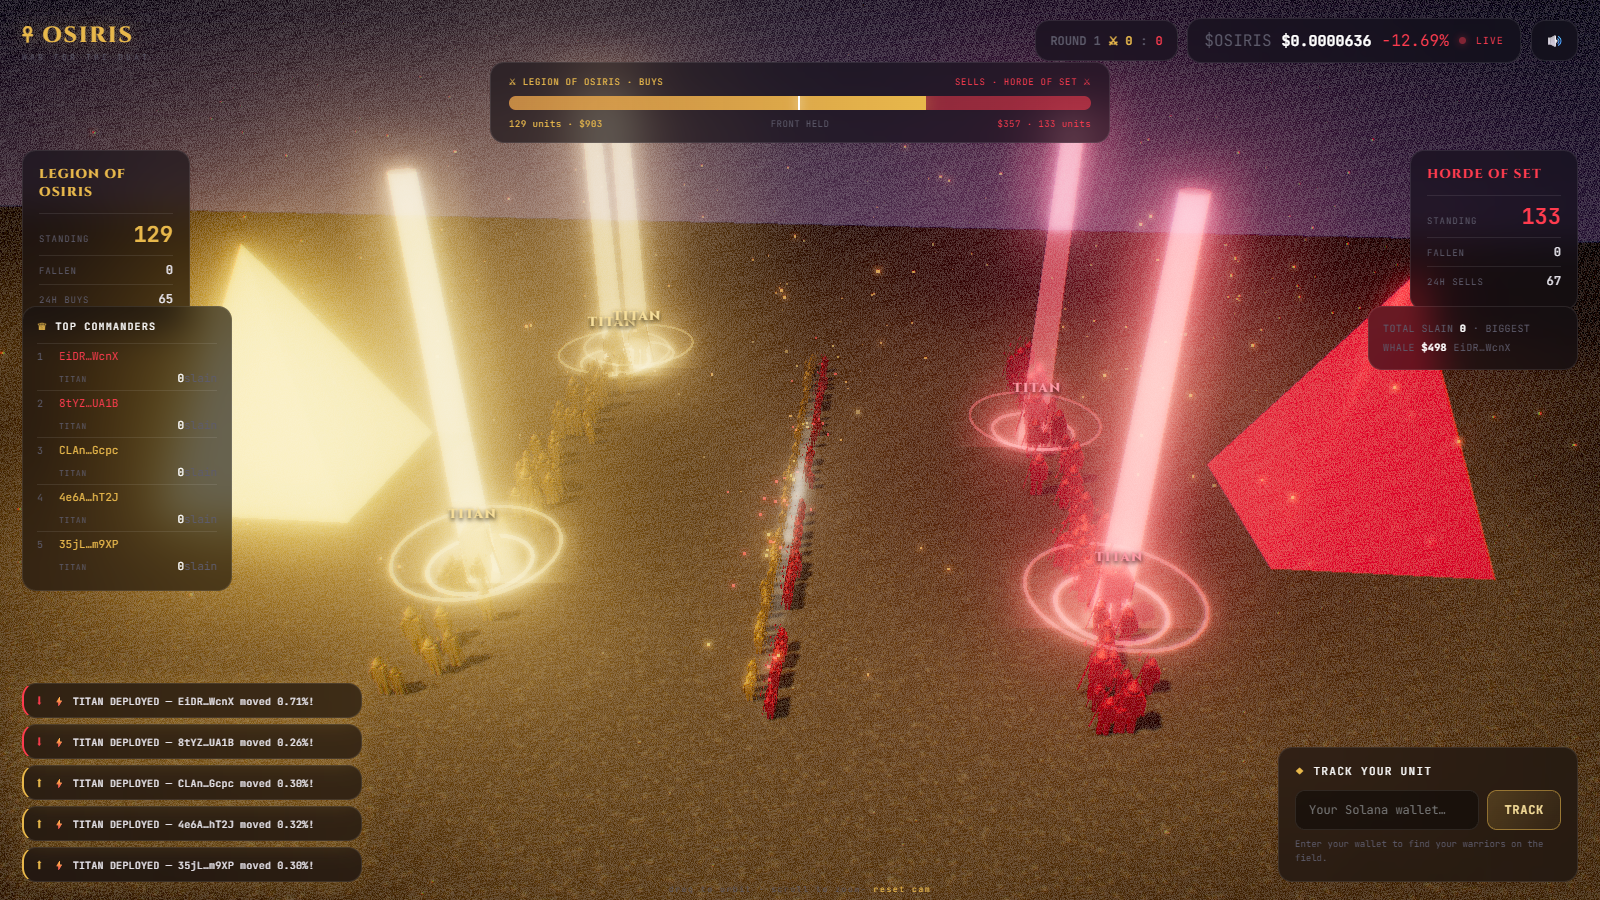
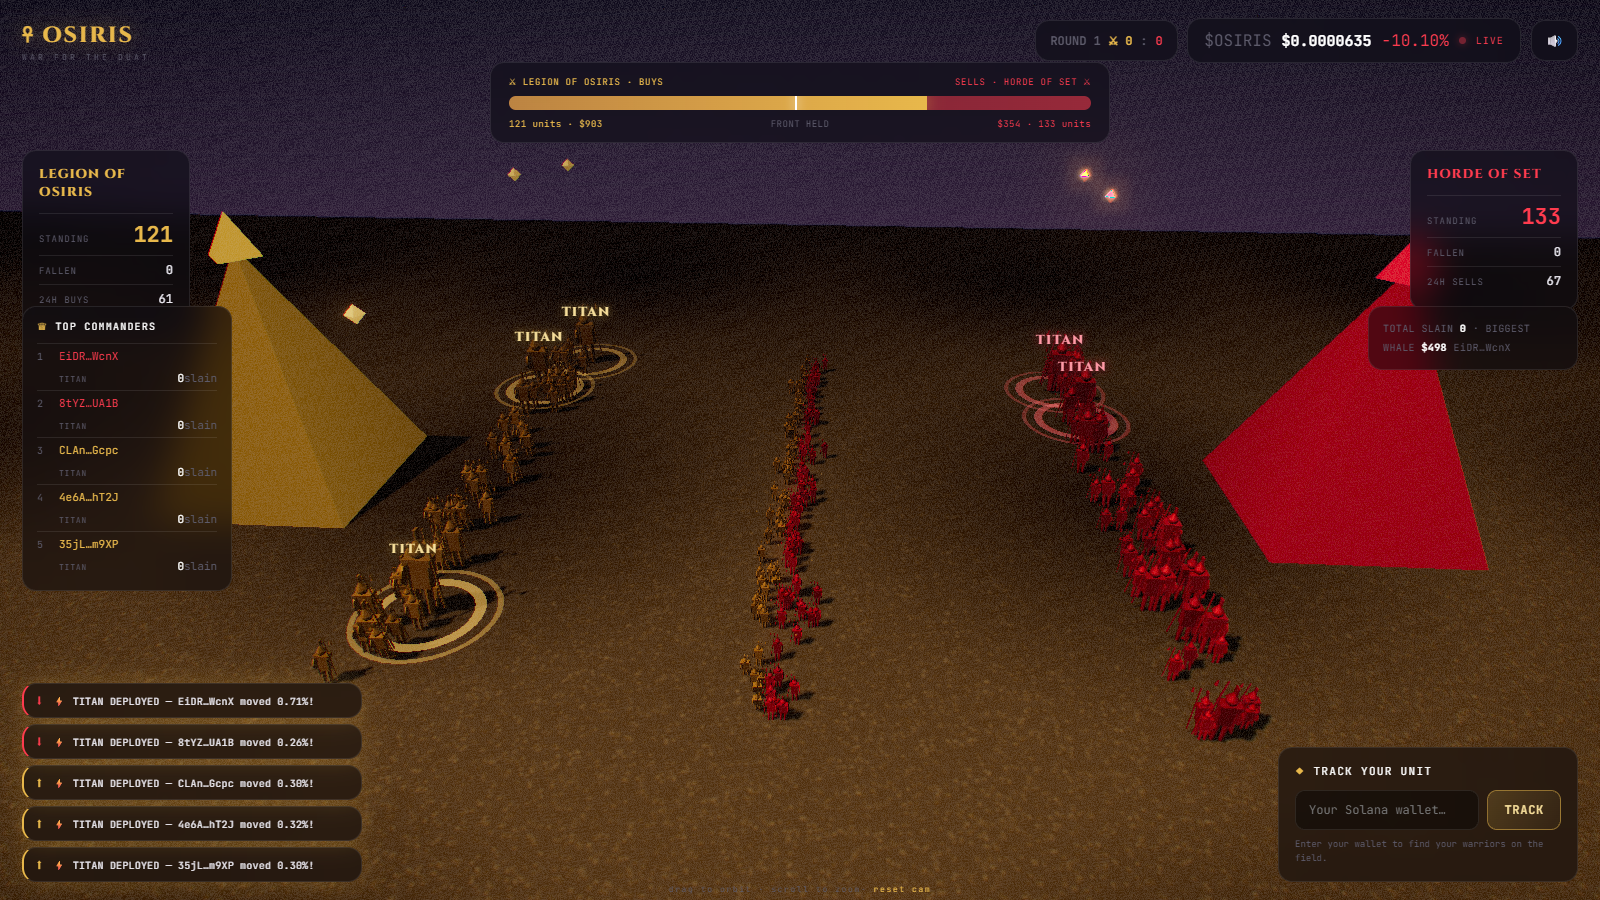
Graphics overhaul: kill blinding beams, real animation, filmic grade
- Removed the blinding vertical light pillars; legends now marked by subtle
  ground runes + a floating crown (no glare)
- Toned down bloom (0.9->0.42, threshold up), exposure, and all emissives so
  the field reads clearly; pyramids get a small glowing capstone instead of
  glowing whole
- Real animation: marching gait (bob + lean) for advancing troops, stabbing
  lunges for units in melee, tumble on death
- Better warrior model: tapered legs, shoulders, plumed helm, cape, round shield
- Warm filmic grade (soft contrast + warm tint), softer vignette, less grain
- Round soft particles via alphaTest (dust/embers/sparks/souls); embers kept
  low and subtle instead of floating high

Claude-Session: https://claude.ai/code/session_015tQMzkiqweDMCFznisx5mN

diff --git a/src/lib/battle/engine.ts b/src/lib/battle/engine.ts
@@ -70,6 +70,7 @@ type Unit = {
 	dying: number;
 	tracked: boolean;
 	legend: boolean;
+	melee: boolean;
 };
 
 const MAX = 900;
@@ -86,16 +87,25 @@ const CRIMSON = new THREE.Color('#FF3B4E');
 
 function buildWarrior(): THREE.BufferGeometry {
 	const parts: THREE.BufferGeometry[] = [];
-	const leg = new THREE.BoxGeometry(0.16, 0.72, 0.18);
+	// legs (tapered)
+	const leg = new THREE.CylinderGeometry(0.1, 0.07, 0.72, 5);
 	const l1 = leg.clone(); l1.translate(-0.13, 0.36, 0);
 	const l2 = leg.clone(); l2.translate(0.13, 0.36, 0);
-	const torso = new THREE.BoxGeometry(0.52, 0.78, 0.3); torso.translate(0, 1.08, 0);
-	const head = new THREE.SphereGeometry(0.2, 8, 6); head.translate(0, 1.62, 0);
-	const helm = new THREE.ConeGeometry(0.22, 0.28, 6); helm.translate(0, 1.82, 0);
-	const spear = new THREE.CylinderGeometry(0.03, 0.03, 1.9, 5); spear.rotateZ(0.18); spear.translate(0.34, 1.15, 0.08);
-	const tip = new THREE.ConeGeometry(0.07, 0.22, 6); tip.rotateZ(0.18); tip.translate(0.52, 2.05, 0.08);
-	const shield = new THREE.BoxGeometry(0.06, 0.52, 0.42); shield.translate(-0.32, 1.05, 0);
-	parts.push(l1, l2, torso, head, helm, spear, tip, shield);
+	// torso + a shoulder taper for a soldier silhouette
+	const torso = new THREE.BoxGeometry(0.5, 0.7, 0.28); torso.translate(0, 1.05, 0);
+	const shoulders = new THREE.BoxGeometry(0.62, 0.16, 0.34); shoulders.translate(0, 1.36, 0);
+	const head = new THREE.SphereGeometry(0.18, 8, 6); head.translate(0, 1.58, 0);
+	// plumed helm
+	const helm = new THREE.ConeGeometry(0.2, 0.3, 6); helm.translate(0, 1.78, 0);
+	const plume = new THREE.BoxGeometry(0.05, 0.26, 0.18); plume.translate(0, 1.98, -0.05);
+	// flowing cape
+	const cape = new THREE.PlaneGeometry(0.5, 0.9); cape.rotateY(Math.PI / 2); cape.rotateX(0.16); cape.translate(-0.17, 0.95, 0);
+	// spear + blade tip
+	const spear = new THREE.CylinderGeometry(0.028, 0.028, 2.0, 5); spear.rotateZ(0.14); spear.translate(0.36, 1.2, 0.08);
+	const tip = new THREE.ConeGeometry(0.06, 0.24, 6); tip.rotateZ(0.14); tip.translate(0.52, 2.14, 0.08);
+	// round shield
+	const shield = new THREE.CylinderGeometry(0.28, 0.28, 0.05, 12); shield.rotateZ(Math.PI / 2); shield.translate(-0.32, 1.02, 0);
+	parts.push(l1, l2, torso, shoulders, head, helm, plume, cape, spear, tip, shield);
 	const merged = mergeGeometries(parts, false)!;
 	merged.computeVertexNormals();
 	return merged;
@@ -230,7 +240,7 @@ export class Battle {
 		this.renderer.shadowMap.enabled = true;
 		this.renderer.shadowMap.type = THREE.PCFSoftShadowMap;
 		this.renderer.toneMapping = THREE.ACESFilmicToneMapping;
-		this.renderer.toneMappingExposure = 1.1;
+		this.renderer.toneMappingExposure = 0.95;
 
 		this.scene.background = skyTexture();
 		this.scene.fog = new THREE.FogExp2(0x160f18, 0.0105);
@@ -260,7 +270,7 @@ export class Battle {
 
 		this.composer = new EffectComposer(this.renderer);
 		this.composer.addPass(new RenderPass(this.scene, this.camera));
-		this.composer.addPass(new UnrealBloomPass(new THREE.Vector2(innerWidth, innerHeight), 0.9, 0.6, 0.16));
+		this.composer.addPass(new UnrealBloomPass(new THREE.Vector2(innerWidth, innerHeight), 0.42, 0.7, 0.5));
 		this.cine = makeCinematicPass();
 		this.composer.addPass(this.cine);
 		this.composer.addPass(new OutputPass());
@@ -324,19 +334,23 @@ export class Battle {
 	private buildCapital(color: THREE.Color, x: number): THREE.Mesh {
 		const m = new THREE.Mesh(
 			new THREE.ConeGeometry(11, 20, 4),
-			new THREE.MeshStandardMaterial({ color: color.clone().multiplyScalar(0.5), emissive: color, emissiveIntensity: 0.35, metalness: 0.4, roughness: 0.5, flatShading: true })
+			new THREE.MeshStandardMaterial({ color: color.clone().multiplyScalar(0.32), emissive: color, emissiveIntensity: 0.18, metalness: 0.5, roughness: 0.42, flatShading: true })
 		);
 		m.position.set(x, 10, 0);
 		m.rotation.y = Math.PI / 4;
 		m.castShadow = true;
+		// a thin glowing capstone so it reads without the whole pyramid glowing
+		const cap = new THREE.Mesh(new THREE.ConeGeometry(2.2, 3.4, 4), new THREE.MeshBasicMaterial({ color }));
+		cap.position.set(0, 11, 0); cap.rotation.y = Math.PI / 4;
+		m.add(cap);
 		this.scene.add(m);
 		return m;
 	}
 
 	private buildFrontLine(): THREE.Mesh {
 		const m = new THREE.Mesh(
-			new THREE.PlaneGeometry(3.2, ARENA_Z * 2 + 10),
-			new THREE.MeshBasicMaterial({ map: radialTexture('rgba(255,235,190,0.9)'), color: 0xffffff, transparent: true, opacity: 0.5, blending: THREE.AdditiveBlending, depthWrite: false })
+			new THREE.PlaneGeometry(5, ARENA_Z * 2 + 10),
+			new THREE.MeshBasicMaterial({ map: radialTexture('rgba(255,180,120,0.7)'), color: 0xffaa66, transparent: true, opacity: 0.22, blending: THREE.AdditiveBlending, depthWrite: false })
 		);
 		m.rotation.x = -Math.PI / 2;
 		m.position.y = 0.06;
@@ -345,7 +359,7 @@ export class Battle {
 	}
 
 	private buildArmy(geo: THREE.BufferGeometry, base: THREE.Color, emissive: number): THREE.InstancedMesh {
-		const mat = new THREE.MeshStandardMaterial({ color: 0xffffff, emissive, emissiveIntensity: 0.5, metalness: 0.35, roughness: 0.55 });
+		const mat = new THREE.MeshStandardMaterial({ color: 0xffffff, emissive, emissiveIntensity: 0.22, metalness: 0.4, roughness: 0.5 });
 		const mesh = new THREE.InstancedMesh(geo, mat, MAX);
 		mesh.castShadow = true;
 		mesh.instanceMatrix.setUsage(THREE.DynamicDrawUsage);
@@ -371,7 +385,7 @@ export class Battle {
 		}
 		const g = new THREE.BufferGeometry();
 		g.setAttribute('position', new THREE.BufferAttribute(pos, 3));
-		this.scene.add(new THREE.Points(g, new THREE.PointsMaterial({ color: 0xd8b070, size: 0.18, transparent: true, opacity: 0.3, depthWrite: false })));
+		this.scene.add(new THREE.Points(g, new THREE.PointsMaterial({ map: radialTexture('rgba(216,176,112,0.9)'), color: 0xd8b070, size: 0.3, transparent: true, opacity: 0.16, depthWrite: false, alphaTest: 0.35 })));
 	}
 
 	private buildSparks() {
@@ -384,7 +398,7 @@ export class Battle {
 		const g = new THREE.BufferGeometry();
 		g.setAttribute('position', new THREE.BufferAttribute(this.sparkPos, 3));
 		g.setAttribute('color', new THREE.BufferAttribute(this.sparkColor, 3));
-		this.sparks = new THREE.Points(g, new THREE.PointsMaterial({ size: 0.42, vertexColors: true, transparent: true, opacity: 0.95, blending: THREE.AdditiveBlending, depthWrite: false }));
+		this.sparks = new THREE.Points(g, new THREE.PointsMaterial({ map: radialTexture('rgba(255,255,255,0.95)'), size: 0.5, vertexColors: true, transparent: true, opacity: 0.95, blending: THREE.AdditiveBlending, depthWrite: false, alphaTest: 0.35 }));
 		this.sparks.frustumCulled = false;
 		this.scene.add(this.sparks);
 	}
@@ -400,7 +414,7 @@ export class Battle {
 		const g = new THREE.BufferGeometry();
 		g.setAttribute('position', new THREE.BufferAttribute(this.soulPos, 3));
 		g.setAttribute('color', new THREE.BufferAttribute(this.soulColor, 3));
-		this.souls = new THREE.Points(g, new THREE.PointsMaterial({ map: radialTexture('rgba(255,255,255,0.9)'), size: 1.5, vertexColors: true, transparent: true, opacity: 0.85, blending: THREE.AdditiveBlending, depthWrite: false }));
+		this.souls = new THREE.Points(g, new THREE.PointsMaterial({ map: radialTexture('rgba(255,255,255,0.9)'), size: 1.5, vertexColors: true, transparent: true, opacity: 0.85, blending: THREE.AdditiveBlending, depthWrite: false, alphaTest: 0.25 }));
 		this.souls.frustumCulled = false;
 		this.scene.add(this.souls);
 	}
@@ -412,34 +426,33 @@ export class Battle {
 		for (let i = 0; i < N; i++) this.resetEmber(i, true);
 		const g = new THREE.BufferGeometry();
 		g.setAttribute('position', new THREE.BufferAttribute(this.emberPos, 3));
-		this.embers = new THREE.Points(g, new THREE.PointsMaterial({ color: 0xffa94b, size: 0.3, transparent: true, opacity: 0.6, blending: THREE.AdditiveBlending, depthWrite: false }));
+		this.embers = new THREE.Points(g, new THREE.PointsMaterial({ map: radialTexture('rgba(255,170,80,0.95)'), color: 0xffa94b, size: 0.38, transparent: true, opacity: 0.42, blending: THREE.AdditiveBlending, depthWrite: false, alphaTest: 0.3 }));
 		this.embers.frustumCulled = false;
 		this.scene.add(this.embers);
 	}
 	private resetEmber(i: number, spread = false) {
-		this.emberPos[i * 3] = this.frontX + (Math.random() - 0.5) * (spread ? 120 : 10);
-		this.emberPos[i * 3 + 1] = Math.random() * (spread ? 26 : 1);
+		this.emberPos[i * 3] = this.frontX + (Math.random() - 0.5) * (spread ? 100 : 14);
+		this.emberPos[i * 3 + 1] = Math.random() * (spread ? 12 : 0.5);
 		this.emberPos[i * 3 + 2] = (Math.random() - 0.5) * ARENA_Z * 2.2;
-		this.emberVel[i * 3] = (Math.random() - 0.5) * 0.6;
-		this.emberVel[i * 3 + 1] = 1.4 + Math.random() * 2.2;
-		this.emberVel[i * 3 + 2] = (Math.random() - 0.5) * 0.6;
+		this.emberVel[i * 3] = (Math.random() - 0.5) * 0.5;
+		this.emberVel[i * 3 + 1] = 1.1 + Math.random() * 1.8;
+		this.emberVel[i * 3 + 2] = (Math.random() - 0.5) * 0.5;
 	}
 
 	private buildAuras() {
-		const pillarGeo = new THREE.CylinderGeometry(0.34, 0.5, 12, 8, 1, true);
-		pillarGeo.translate(0, 6, 0);
-		const ringGeo = new THREE.TorusGeometry(1.5, 0.06, 8, 32);
-		const ring2Geo = new THREE.TorusGeometry(2.4, 0.05, 8, 32);
+		// Subtle ground runes + a floating crown — no blinding vertical beams.
+		const runeGeo = new THREE.RingGeometry(1.05, 1.3, 40);
+		const rune2Geo = new THREE.RingGeometry(1.55, 1.68, 40);
+		const crownGeo = new THREE.OctahedronGeometry(0.2, 0);
 		for (let i = 0; i < 12; i++) {
 			const grp = new THREE.Group();
-			const pillar = new THREE.Mesh(pillarGeo, new THREE.MeshBasicMaterial({ color: 0xfff2c0, transparent: true, opacity: 0.32, blending: THREE.AdditiveBlending, depthWrite: false, side: THREE.DoubleSide }));
-			const r1 = new THREE.Mesh(ringGeo, new THREE.MeshBasicMaterial({ color: 0xfff2c0, transparent: true, opacity: 0.7, blending: THREE.AdditiveBlending, depthWrite: false }));
-			r1.rotation.x = Math.PI / 2; r1.position.y = 0.6; r1.name = 'r1';
-			const r2 = new THREE.Mesh(ring2Geo, new THREE.MeshBasicMaterial({ color: 0xfff2c0, transparent: true, opacity: 0.5, blending: THREE.AdditiveBlending, depthWrite: false }));
-			r2.rotation.x = Math.PI / 2; r2.position.y = 1.1; r2.name = 'r2';
-			const glow = new THREE.Sprite(new THREE.SpriteMaterial({ map: radialTexture('rgba(255,240,200,0.8)'), transparent: true, blending: THREE.AdditiveBlending, depthWrite: false }));
-			glow.scale.set(7, 7, 1); glow.position.y = 0.3; glow.name = 'glow';
-			grp.add(pillar, r1, r2, glow);
+			const r1 = new THREE.Mesh(runeGeo, new THREE.MeshBasicMaterial({ color: 0xffe0a0, transparent: true, opacity: 0.5, blending: THREE.AdditiveBlending, depthWrite: false, side: THREE.DoubleSide }));
+			r1.rotation.x = -Math.PI / 2; r1.position.y = 0.08; r1.name = 'r1';
+			const r2 = new THREE.Mesh(rune2Geo, new THREE.MeshBasicMaterial({ color: 0xffe0a0, transparent: true, opacity: 0.28, blending: THREE.AdditiveBlending, depthWrite: false, side: THREE.DoubleSide }));
+			r2.rotation.x = -Math.PI / 2; r2.position.y = 0.08; r2.name = 'r2';
+			const crown = new THREE.Mesh(crownGeo, new THREE.MeshStandardMaterial({ color: 0xfff0c0, emissive: 0xffcf70, emissiveIntensity: 0.7, metalness: 0.6, roughness: 0.3 }));
+			crown.name = 'crown';
+			grp.add(r1, r2, crown);
 			grp.visible = false;
 			this.scene.add(grp);
 			this.auras.push(grp);
@@ -515,7 +528,7 @@ export class Battle {
 			z: (Math.random() - 0.5) * ARENA_Z * 2,
 			rank: atFront ? Math.random() * 3 : Math.random() * 6,
 			bob: Math.random() * Math.PI * 2, kills: 0, idx, dying: 0,
-			tracked: !!this.trackWallet && wallet === this.trackWallet, legend
+			tracked: !!this.trackWallet && wallet === this.trackWallet, legend, melee: false
 		});
 	}
 
@@ -588,7 +601,7 @@ export class Battle {
 		const ep = this.emberPos, ev = this.emberVel;
 		for (let i = 0; i < this.EMBER_N; i++) {
 			ep[i * 3] += ev[i * 3] * dt; ep[i * 3 + 1] += ev[i * 3 + 1] * dt; ep[i * 3 + 2] += ev[i * 3 + 2] * dt;
-			if (ep[i * 3 + 1] > 30) this.resetEmber(i);
+			if (ep[i * 3 + 1] > 15) this.resetEmber(i);
 		}
 		(this.embers.geometry.getAttribute('position') as THREE.BufferAttribute).needsUpdate = true;
 	}
@@ -641,7 +654,8 @@ export class Battle {
 			const tx = this.frontX + u.sign * (0.7 + u.rank * 0.9);
 			u.x += Math.sign(tx - u.x) * Math.min(Math.abs(tx - u.x), SPEED * dt);
 			const distToFront = u.team === 'bull' ? this.frontX - u.x : u.x - this.frontX;
-			if (distToFront < MELEE) (u.team === 'bull' ? meleeBulls : meleeBears).push(u);
+			u.melee = distToFront < MELEE;
+			if (u.melee) (u.team === 'bull' ? meleeBulls : meleeBears).push(u);
 		}
 
 		if (meleeBulls.length && meleeBears.length) {
@@ -660,10 +674,10 @@ export class Battle {
 		this.writeArmy(this.bear, 'bear');
 
 		this.frontLine.position.x = this.frontX;
-		(this.frontLine.material as THREE.MeshBasicMaterial).opacity = 0.35 + Math.sin(this.time * 5) * 0.12;
+		(this.frontLine.material as THREE.MeshBasicMaterial).opacity = 0.18 + Math.sin(this.time * 5) * 0.06;
 		const bullThreat = THREE.MathUtils.clamp((this.frontX + FRONT_MAX) / (FRONT_MAX * 2), 0, 1);
-		(this.capitalBull.material as THREE.MeshStandardMaterial).emissiveIntensity = 0.35 + (1 - bullThreat) * 1.0;
-		(this.capitalBear.material as THREE.MeshStandardMaterial).emissiveIntensity = 0.35 + bullThreat * 1.0;
+		(this.capitalBull.material as THREE.MeshStandardMaterial).emissiveIntensity = 0.18 + (1 - bullThreat) * 0.5;
+		(this.capitalBear.material as THREE.MeshStandardMaterial).emissiveIntensity = 0.18 + bullThreat * 0.5;
 
 		// victory detection
 		if (this.frontX > WIN_THRESH) { if (this.winSide !== 'bull') { this.winSide = 'bull'; this.winHold = 0; } this.winHold += dt; }
@@ -700,8 +714,8 @@ export class Battle {
 		const win = this.winner === 'bull' ? this.capitalBull : this.capitalBear;
 		loser.scale.setScalar(Math.max(0.02, k));
 		loser.position.y = 10 * k;
-		(loser.material as THREE.MeshStandardMaterial).emissiveIntensity = 0.35 + (1 - k) * 3;
-		(win.material as THREE.MeshStandardMaterial).emissiveIntensity = 1.4 + Math.sin(this.time * 8) * 0.6;
+		(loser.material as THREE.MeshStandardMaterial).emissiveIntensity = 0.2 + (1 - k) * 1.5;
+		(win.material as THREE.MeshStandardMaterial).emissiveIntensity = 0.6 + Math.sin(this.time * 8) * 0.3;
 		if (Math.random() < 0.5) this.spawnBurst(loser.position.x + (Math.random() - 0.5) * 12, Math.random() * 14 * k + 1, (Math.random() - 0.5) * 12, this.winner === 'bull' ? CRIMSON : GOLD, 3);
 
 		if (remain <= 0) this.resetRound();
@@ -744,16 +758,26 @@ export class Battle {
 			if (u.team !== team) continue;
 			if (u.dying <= 0 && u.hp <= 0) continue;
 			const d = this.dummy;
+			const faceY = u.sign < 0 ? 0 : Math.PI;
+			const s = u.scale * UNIT_SCALE;
 			if (u.dying > 0) {
 				const t = u.dying / 0.6;
 				d.position.set(u.x, -(1 - t) * 1.2, u.z);
-				d.scale.setScalar(u.scale * UNIT_SCALE * t);
-				d.rotation.set((1 - t) * 1.4, u.sign < 0 ? 0 : Math.PI, 0);
+				d.scale.setScalar(s * t);
+				d.rotation.set((1 - t) * 1.5, faceY, (1 - t) * 0.6);
+			} else if (u.melee) {
+				// stabbing lunge toward the enemy line
+				const dir = u.team === 'bull' ? 1 : -1;
+				const lunge = Math.max(0, Math.sin(this.time * 11 + u.bob));
+				d.position.set(u.x + dir * lunge * 0.5, Math.abs(Math.sin(u.bob * 2)) * 0.06 * u.scale, u.z);
+				d.scale.setScalar(s);
+				d.rotation.set(dir * lunge * 0.32, faceY, 0);
 			} else {
-				const bobY = Math.abs(Math.sin(u.bob)) * 0.12 * u.scale;
-				d.position.set(u.x, bobY, u.z);
-				d.scale.setScalar(u.scale * UNIT_SCALE);
-				d.rotation.set(0, u.sign < 0 ? 0 : Math.PI, Math.sin(u.bob) * 0.05);
+				// marching gait — bob + forward lean rock
+				const gait = Math.sin(u.bob);
+				d.position.set(u.x, Math.abs(gait) * 0.18 * u.scale, u.z);
+				d.scale.setScalar(s);
+				d.rotation.set(gait * 0.12, faceY, Math.sin(u.bob * 0.5) * 0.05);
 			}
 			d.updateMatrix();
 			mesh.setMatrixAt(u.idx, d.matrix);
@@ -811,16 +835,18 @@ export class Battle {
 				const g = this.auras[ai++];
 				g.visible = true;
 				g.position.set(u.x, 0, u.z);
-				const col = u.tracked ? 0xfff2c0 : u.team === 'bull' ? 0xffd070 : 0xff6a7a;
+				const col = u.tracked ? 0xffe9b0 : u.team === 'bull' ? 0xffcf70 : 0xff7a86;
 				const s = u.scale * UNIT_SCALE;
-				g.scale.setScalar(THREE.MathUtils.clamp(s * 0.8, 0.7, 3));
-				const r1 = g.getObjectByName('r1'); const r2 = g.getObjectByName('r2');
-				if (r1) r1.rotation.z += dt * 1.4;
-				if (r2) r2.rotation.z -= dt * 1.0;
-				g.traverse((o) => {
-					const m = (o as THREE.Mesh).material as THREE.MeshBasicMaterial | undefined;
-					if (m && 'color' in m) m.color.setHex(col);
-				});
+				g.scale.setScalar(THREE.MathUtils.clamp(s, 0.8, 3.4));
+				const r1 = g.getObjectByName('r1'); const r2 = g.getObjectByName('r2'); const crown = g.getObjectByName('crown');
+				if (r1) { r1.rotation.z += dt * 0.6; (((r1 as THREE.Mesh).material) as THREE.MeshBasicMaterial).color.setHex(col); }
+				if (r2) { r2.rotation.z -= dt * 0.4; (((r2 as THREE.Mesh).material) as THREE.MeshBasicMaterial).color.setHex(col); }
+				if (crown) {
+					crown.position.y = s * 2.4 + Math.sin(this.time * 2 + u.bob) * 0.12;
+					crown.rotation.y += dt * 1.6;
+					const cm = (crown as THREE.Mesh).material as THREE.MeshStandardMaterial;
+					cm.emissive.setHex(col);
+				}
 			}
 		}
 		for (; ai < this.auras.length; ai++) this.auras[ai].visible = false;

diff --git a/src/lib/battle/cinematic.ts b/src/lib/battle/cinematic.ts
@@ -6,9 +6,9 @@ export function makeCinematicPass(): ShaderPass {
 		uniforms: {
 			tDiffuse: { value: null },
 			time: { value: 0 },
-			vignette: { value: 1.15 },
-			grain: { value: 0.06 },
-			aberration: { value: 0.0016 },
+			vignette: { value: 1.05 },
+			grain: { value: 0.035 },
+			aberration: { value: 0.0012 },
 			flash: { value: 0 }
 		},
 		vertexShader: `
@@ -43,15 +43,19 @@ export function makeCinematicPass(): ShaderPass {
 				col.g = texture2D(tDiffuse, uv).g;
 				col.b = texture2D(tDiffuse, uv + dir * a).b;
 
+				// gentle filmic contrast + warm grade
+				col = mix(col, col * col * (3.0 - 2.0 * col), 0.18);
+				col *= vec3(1.05, 1.0, 0.93);
+
 				// vignette
-				float vig = smoothstep(0.9, 0.25, d * vignette);
-				col *= mix(0.55, 1.0, vig);
+				float vig = smoothstep(0.95, 0.32, d * vignette);
+				col *= mix(0.62, 1.0, vig);
 
 				// film grain
 				float g = hash(uv * vec2(1920.0, 1080.0) + time) - 0.5;
 				col += g * grain;
 
-				// battle flash (white pulse on god descent / victory)
+				// battle flash (warm pulse on god descent / victory)
 				col += flash * vec3(1.0, 0.92, 0.7);
 
 				gl_FragColor = vec4(col, 1.0);